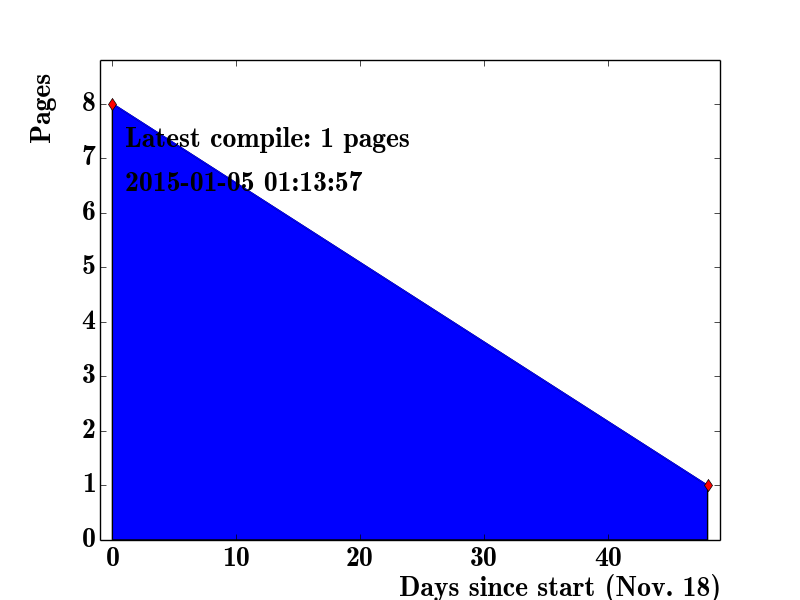
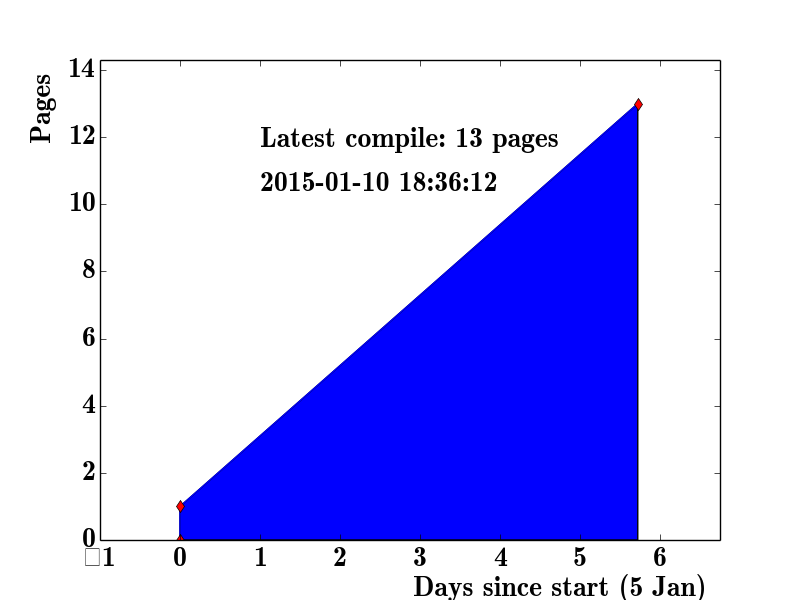
fonts still not working

Changed region(s): [[0.0938, 0.09, 0.9062, 1.0], [0.4062, 0.9, 0.4688, 0.96], [0.2812, 0.9, 0.3438, 0.96]]

diff --git a/scripts/plot_pages.py b/scripts/plot_pages.py
@@ -3,16 +3,16 @@ import sys
 
 spd = float(60*60*24)
 
-start = "2014-11-18-00h00m00s"
+start = "2015-01-05-01h13m57s"
 start = datetime.datetime.strptime(start, "%Y-%m-%d-%Hh%Mm%Ss")
 last = ""
 
 dayssince = []
 pages = []
 
-# the template already has 8 pages. thx reecer.
+# the template starts with 0 pages.
 dayssince.append(0)
-pages.append(8)
+pages.append(0)
 
 with open("scripts/pages.md") as file:
     for line in file.readlines():
@@ -50,7 +50,7 @@ ax = plt.gca()
 ax.xaxis.set_label_coords(0.74, -0.07)
 ax.yaxis.set_label_coords(-0.07, 0.9)
 
-plt.xlabel("Days since start (Nov. 18)")
+plt.xlabel("Days since start (5 Jan)")
 plt.ylabel("Pages")
 plt.title("")
 plt.text(1, 0.90*max(pages), r"Latest compile: %s pages" % (lastpages))
